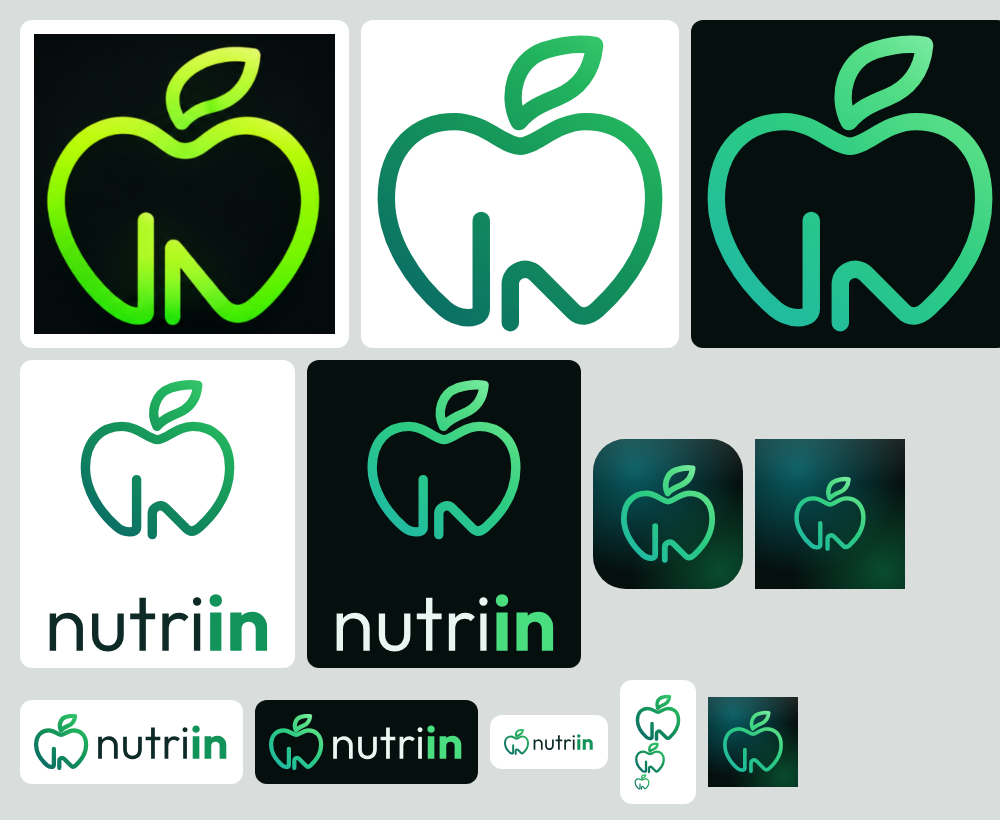
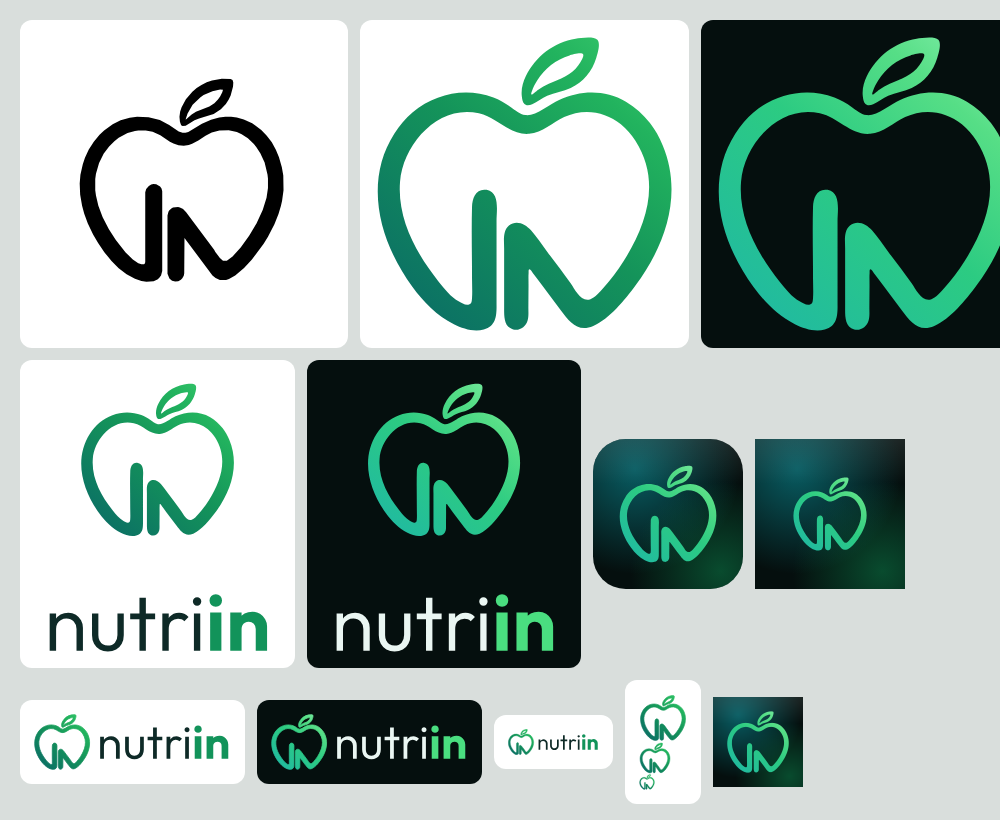
Nutriin: знакът е формата от пакета на собственика — контурите изгладени с криви, цветовете на марката
Claude-Session: https://claude.ai/code/session_01AAmbBaVt2HSrok4C214enD

diff --git a/design-system.css b/design-system.css
@@ -1936,7 +1936,7 @@ nav.bottom-nav .bottom-nav-item:focus-visible {
    <span class="ex-logo" role="img" aria-label="Nutriin"></span>  (хоризонтално, следва темата)
    <span class="ex-mark"></span>                                         (само знакът)
    =========================== */
-.ex-logo { display: inline-block; height: 28px; aspect-ratio: 3478 / 1000; background: var(--brand-logo) left center / contain no-repeat; vertical-align: middle; }
+.ex-logo { display: inline-block; height: 28px; aspect-ratio: 3514 / 1000; background: var(--brand-logo) left center / contain no-repeat; vertical-align: middle; }
 .ex-mark { display: inline-block; width: 28px; height: 28px; background: url('brand/nutriin-mark.svg') center / contain no-repeat; vertical-align: middle; }
 .ex-gradient-text { background: var(--brand-gradient); -webkit-background-clip: text; background-clip: text; color: transparent; }
 
